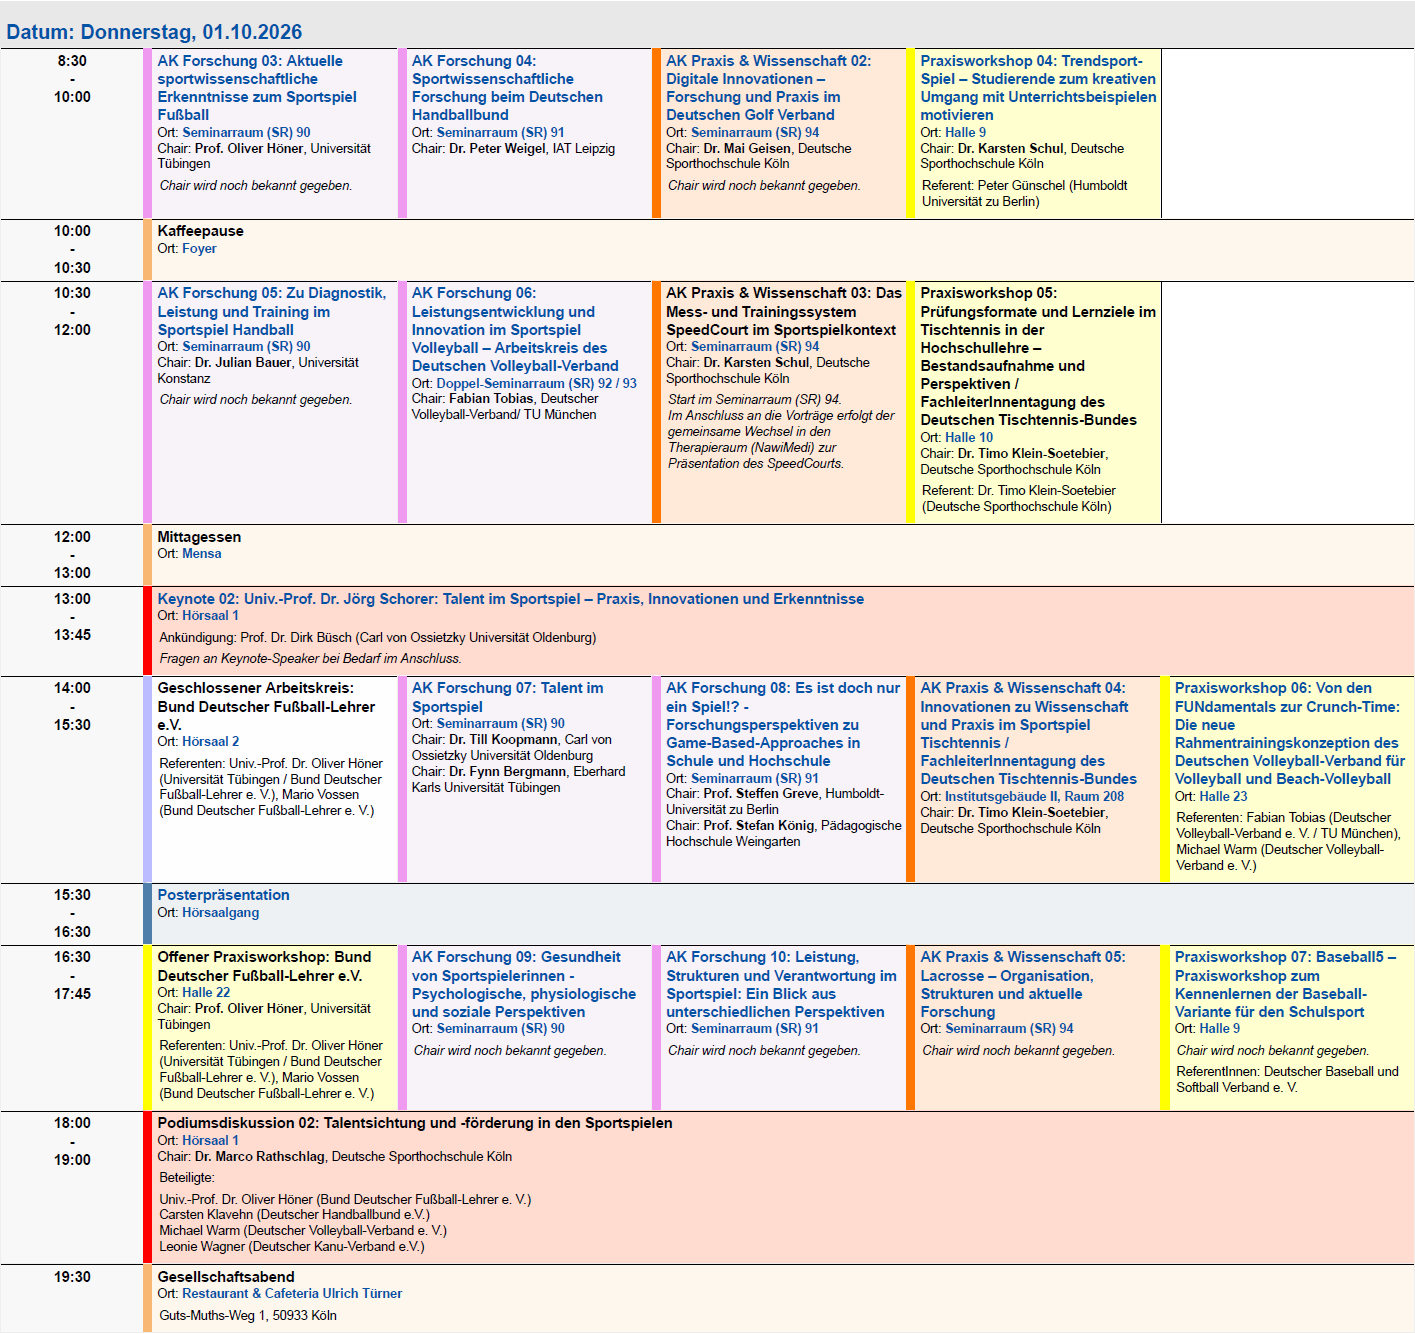
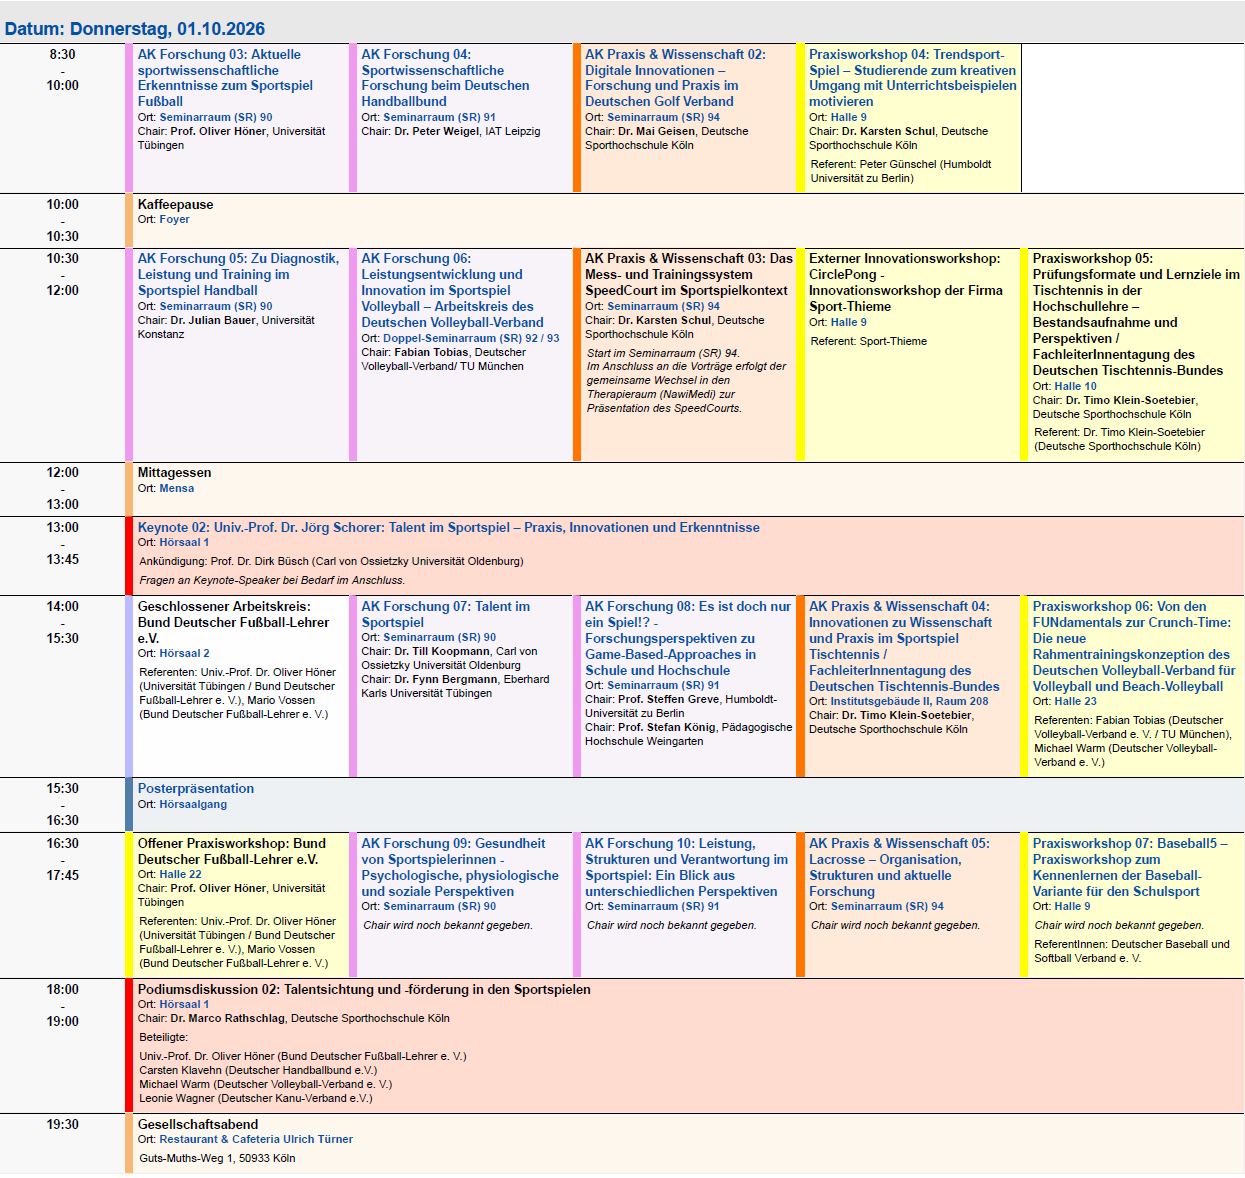
update Beitragsformat

diff --git a/index.php b/index.php
@@ -527,7 +527,7 @@ require_once 'functions.php';
                                                <span>&#8226;</span> Praxisworkshop<br></b>
                 </td>
                 <td><span style="color: red; font-weight: bold;">(Einreichung geschlossen!)</span><br>
-                    Bitte diese <a href="\template\Abstract-Vorlage_14.SportspielSymposium_dvs_2026.docx">Abstract-Vorlage</a> nutzen und per <a href="https://www.conftool.net/sportspiel2026" target="_blank">ConfTool</a> einreichen.<br>
+                <td><span style="color: red; font-weight: bold;">(Einreichung geschlossen!)</span><br>
                     <span style="color: red; font-weight: bold;">(Einreichung geschlossen!)</span><br></td>
 <!--                <td>Bitte diese <a href="\template\Abstract-Vorlage_14.SportspielSymposium_dvs_2026.docx">Abstract-Vorlage</a> nutzen und per <a href="https://www.conftool.net/sportspiel2026" target="_blank">ConfTool</a> einreichen.</td>-->
             </tr>
